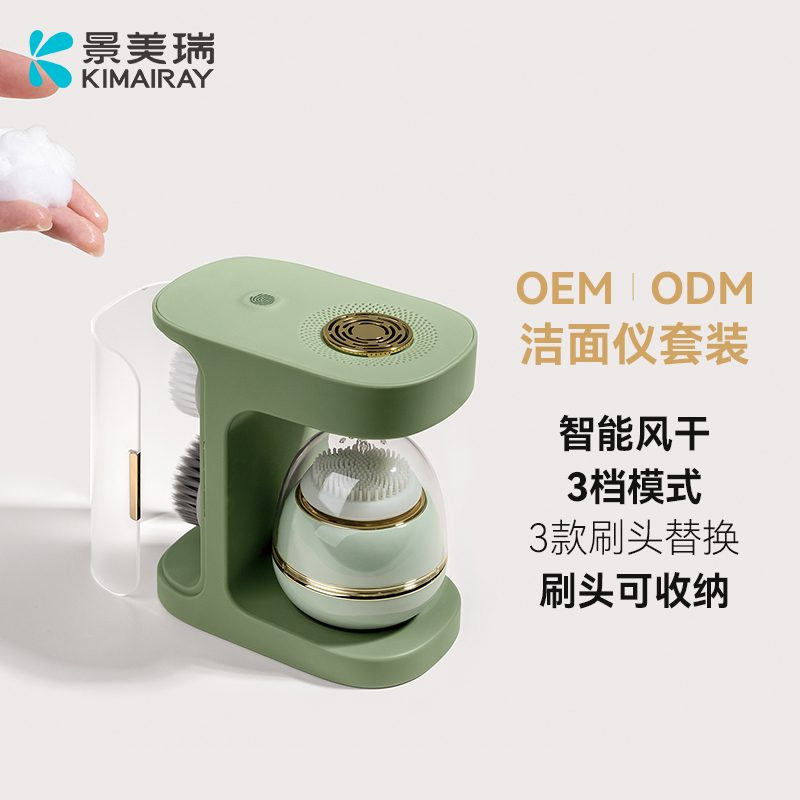
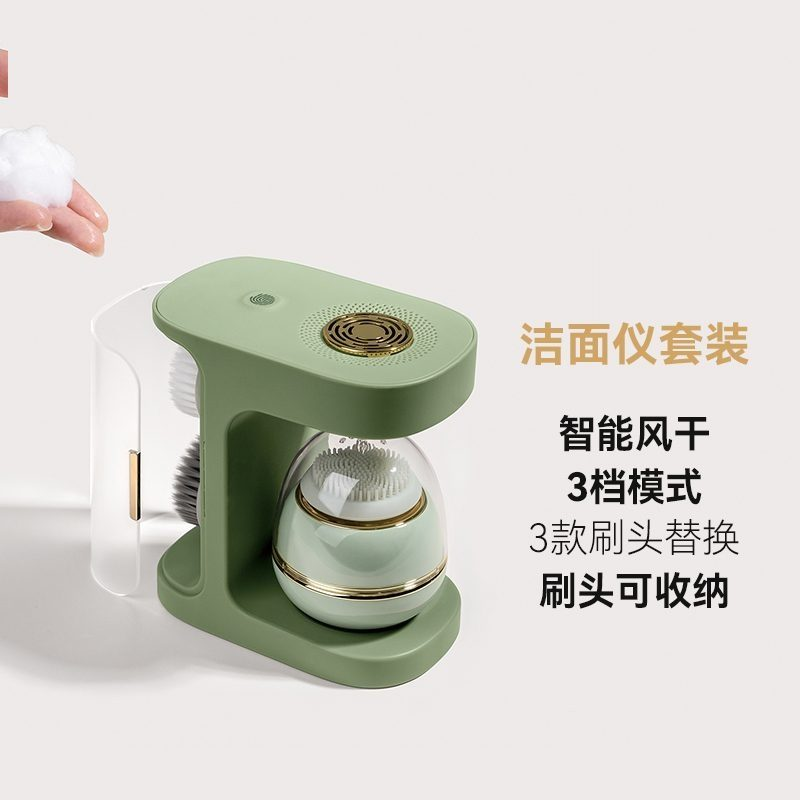
Present the beauty devices as the AuraBridge range.
Remove supplier names and corner brand marks, and replace preview wording with wholesale copy for European professional buyers.

Changed region(s): [[0.0, 0.0312, 0.2812, 0.125], [0.625, 0.3125, 0.7812, 0.4062], [0.8125, 0.3438, 0.9375, 0.4062]]

diff --git a/products.html b/products.html
@@ -24,27 +24,27 @@
     <section class="page-hero product-hero">
       <div class="container">
         <div class="breadcrumb"><a href="index.html">Home</a><span>/</span> Products</div>
-        <div class="eyebrow">Selected product overview</div>
-        <h1>Four models for <em>B2B review.</em></h1>
-        <p>Three beauty devices from our factory partner, followed by one alternating-pressure air mattress for care settings. The notes below use only details confirmed for this preview.</p>
+        <div class="eyebrow">AuraBridge range</div>
+        <h1>Beauty &amp; care devices for <em>European professionals.</em></h1>
+        <p>Sonic facial cleansing, scalp serum tools, and an alternating-pressure air mattress for care settings. Built for salons, distributors, and professional buyers.</p>
         <div class="product-hero__summary" aria-label="Product groups">
           <span><strong>03</strong> Beauty devices</span>
           <span><strong>01</strong> Air mattress</span>
         </div>
       </div>
     </section>
-    <div class="preview-strip"><div class="container"><strong>Preview</strong><i aria-hidden="true"></i><span>Prices are not shown. Certification and regional availability remain under review.</span></div></div>
+    <div class="preview-strip"><div class="container"><strong>Wholesale</strong><i aria-hidden="true"></i><span>Ask for a quote for your market. Product details are listed here; prices are quoted individually.</span></div></div>
 
     <section class="product-intro" aria-label="Browse product groups">
       <div class="container product-intro__inner">
-        <p>Browse the beauty devices first, then the air mattress. For supply or packaging questions, request a quote. This page does not list prices.</p>
+        <p>Start with the beauty devices, then the air mattress. Request a quote for wholesale supply in your market.</p>
         <nav class="category-links" aria-label="Product categories"><a href="#beauty">Beauty devices <span>03</span></a><a href="#mattresses">Air mattress <span>01</span></a></nav>
       </div>
     </section>
 
     <section class="product-section" id="beauty" aria-labelledby="beauty-title">
       <div class="container">
-        <div class="product-section__heading"><div><div class="eyebrow">01 / Beauty devices</div><h2 id="beauty-title">Facial and scalp care</h2><p>Three JingMeiRui devices for facial cleansing and for applying serum or essential oil as part of a care routine.</p></div><span class="product-section__count">03 models</span></div>
+        <div class="product-section__heading"><div><div class="eyebrow">01 / Beauty devices</div><h2 id="beauty-title">Facial and scalp care</h2><p>Three AuraBridge devices for facial cleansing and for applying serum or essential oil as part of a care routine.</p></div><span class="product-section__count">03 models</span></div>
         <div class="product-grid">
           <article class="product-card facial" id="kf-2212" data-product-id="KF-2212">
             <div class="product-card__art" data-gallery>
@@ -60,7 +60,7 @@
               </div>
             </div>
             <div class="product-card__body">
-              <span class="product-card__vendor">JingMeiRui · Facial care</span>
+              <span class="product-card__vendor">AuraBridge · Facial care</span>
               <h3>Sonic facial cleansing brush</h3>
               <p class="product-card__model">KF-2212</p>
               <p>Silicone sonic brush for facial cleansing, with a wireless charging base that uses UV-C.</p>
@@ -87,7 +87,7 @@
               </div>
             </div>
             <div class="product-card__body">
-              <span class="product-card__vendor">JingMeiRui · Scalp care</span>
+              <span class="product-card__vendor">AuraBridge · Scalp care</span>
               <h3>Precision scalp serum applicator</h3>
               <p class="product-card__model">KH-2406</p>
               <p>Portable applicator for scalp care. A roller-ball tip spreads liquid along the scalp.</p>
@@ -114,7 +114,7 @@
               </div>
             </div>
             <div class="product-card__body">
-              <span class="product-card__vendor">JingMeiRui · Scalp care</span>
+              <span class="product-card__vendor">AuraBridge · Scalp care</span>
               <h3>Scalp roller with serum reservoir</h3>
               <p class="product-card__model">KH-2307</p>
               <p>Scalp roller for scalp care and for applying essential oil or serum.</p>
@@ -154,8 +154,8 @@
       </div>
     </section>
 
-    <section class="product-footnote"><div class="container"><div class="product-footnote__box"><div class="eyebrow">About this selection</div><h2>Four models, ready for a conversation.</h2><p>These are the products currently shown on this preview. Photos were prepared from factory and manufacturer images for this page. Their appearance here does not establish AuraBridge as their manufacturer, importer, distributor or seller. Certification, regional availability and commercial terms are still being reviewed. No prices are shown.</p><a class="text-link" href="contact.html">Request a quote <span aria-hidden="true">→</span></a></div></div></section>
+    <section class="product-footnote"><div class="container"><div class="product-footnote__box"><div class="eyebrow">The range</div><h2>Professional tools, ready to quote.</h2><p>These beauty and care devices are part of the AuraBridge range for salons, distributors, and care providers in Europe. The air mattress is from our partner ObboMed. Share your market and volumes, and we will prepare a wholesale quote.</p><a class="text-link" href="contact.html">Request a quote <span aria-hidden="true">→</span></a></div></div></section>
   </main>
-  <footer class="site-footer"><div class="container footer-main"><div><a class="footer-brand" href="index.html">AuraBridge</a><p>Exploring the connection between Asian beauty and health innovation and European B2B opportunities.</p></div><div><h3>Explore</h3><div class="footer-links"><a href="about.html">About</a><a href="partnerships.html">Partnerships</a><a href="products.html">Products</a></div></div><div><h3>Information</h3><div class="footer-links"><a href="contact.html">Contact</a><a href="products.html">Portfolio updates</a></div></div></div><div class="container footer-bottom"><span>© 2026 AuraBridge. Preview for review.</span><span>English B2B website draft</span></div></footer>
+  <footer class="site-footer"><div class="container footer-main"><div><a class="footer-brand" href="index.html">AuraBridge</a><p>Exploring the connection between Asian beauty and health innovation and European B2B opportunities.</p></div><div><h3>Explore</h3><div class="footer-links"><a href="about.html">About</a><a href="partnerships.html">Partnerships</a><a href="products.html">Products</a></div></div><div><h3>Information</h3><div class="footer-links"><a href="contact.html">Contact</a><a href="products.html">Portfolio updates</a></div></div></div><div class="container footer-bottom"><span>© 2026 AuraBridge</span><span>B2B supply for Europe</span></div></footer>
 </body>
 </html>

diff --git a/partnerships.html b/partnerships.html
@@ -1,9 +1,9 @@
 <!doctype html>
 <html lang="en"><head><meta charset="utf-8"><meta name="viewport" content="width=device-width, initial-scale=1"><meta name="description" content="Explore potential B2B partnership conversations with AuraBridge."><meta name="theme-color" content="#123f61"><title>Partnerships — AuraBridge</title><link rel="icon" type="image/svg+xml" href="assets/favicon.svg"><link rel="stylesheet" href="assets/site.css"><script src="assets/site.js" defer></script></head><body>
   <a class="skip-link" href="#main">Skip to content</a><header class="site-header"><div class="container header-inner"><a class="brand" href="index.html" aria-label="AuraBridge home"><img src="assets/aurabridge-logo.jpg" alt="AuraBridge" width="180" height="49"></a><button class="menu-button" type="button" aria-label="Open menu" aria-expanded="false" aria-controls="site-nav" data-menu-button><svg viewBox="0 0 24 24" fill="none" stroke="currentColor" stroke-width="1.8" aria-hidden="true"><path d="M3 7h18M3 12h18M3 17h18"/></svg></button><nav class="site-nav" id="site-nav" aria-label="Main navigation" data-site-nav><a href="index.html">Home</a><a href="about.html">About</a><a href="partnerships.html" aria-current="page">Partnerships</a><a href="products.html">Products</a><a class="nav-contact" href="contact.html">Contact us <span aria-hidden="true">↗</span></a></nav></div></header>
-  <main id="main"><section class="page-hero"><div class="container"><div class="breadcrumb"><a href="index.html">Home</a><span>/</span> Partnerships</div><h1>Partnerships start with shared understanding.</h1><p>We are interested in conversations that connect Asian capabilities with the realities of France and European B2B markets.</p></div></section><div class="preview-strip"><div class="container"><strong>Preview</strong><i aria-hidden="true"></i><span>Potential areas for discussion; specific services have not yet been confirmed.</span></div></div>
+  <main id="main"><section class="page-hero"><div class="container"><div class="breadcrumb"><a href="index.html">Home</a><span>/</span> Partnerships</div><h1>Partnerships start with shared understanding.</h1><p>We are interested in conversations that connect Asian capabilities with the realities of France and European B2B markets.</p></div></section><div class="preview-strip"><div class="container"><strong>Partnerships</strong><i aria-hidden="true"></i><span>For brands, importers, distributors, and professional channels in Europe.</span></div></div>
     <section class="section"><div class="container content-grid"><div><div class="eyebrow">Who we hope to meet</div><h2>Different perspectives. One conversation.</h2></div><div><p>We welcome discussions with brands, importers, distributors, and professional channels interested in beauty, medical beauty, and health innovation. Each relationship would need to be defined around a confirmed product, clear roles, and relevant market requirements.</p><div class="note-box">This page describes areas for potential discussion. It does not represent a list of services currently offered or an existing partnership.</div></div></div></section>
-    <section class="section tinted"><div class="container"><div class="section-heading"><div class="eyebrow">Potential discussion areas</div><h2>Where a conversation could begin.</h2><p>These themes help structure early dialogue while the business model and portfolio are being confirmed.</p></div><div class="step-list"><article class="step"><span class="number">01</span><h3>Product fit</h3><p>What need does an innovation address, and how might it be understood in a new market?</p></article><article class="step"><span class="number">02</span><h3>Market context</h3><p>Which audience, channels, and local expectations would matter for a responsible market approach?</p></article><article class="step"><span class="number">03</span><h3>Roles and next steps</h3><p>What responsibilities, evidence, and decisions would each party need to clarify?</p></article></div></div></section>
-    <section class="section"><div class="container"><div class="callout"><div><div class="eyebrow light">Next step</div><h2>Learn how to reach us once contact details are confirmed.</h2></div><a class="button light" href="contact.html">Contact page <span aria-hidden="true">↗</span></a></div></div></section>
-  </main><footer class="site-footer"><div class="container footer-main"><div><a class="footer-brand" href="index.html">AuraBridge</a><p>Exploring the connection between Asian beauty and health innovation and European B2B opportunities.</p></div><div><h3>Explore</h3><div class="footer-links"><a href="about.html">About</a><a href="partnerships.html">Partnerships</a><a href="products.html">Products</a></div></div><div><h3>Information</h3><div class="footer-links"><a href="contact.html">Contact</a><a href="products.html">Portfolio updates</a></div></div></div><div class="container footer-bottom"><span>© 2026 AuraBridge. Preview for review.</span><span>English B2B website draft</span></div></footer>
+    <section class="section tinted"><div class="container"><div class="section-heading"><div class="eyebrow">Potential discussion areas</div><h2>Where a conversation could begin.</h2><p>These themes help structure a first conversation about product, market, and roles.</p></div><div class="step-list"><article class="step"><span class="number">01</span><h3>Product fit</h3><p>What need does an innovation address, and how might it be understood in a new market?</p></article><article class="step"><span class="number">02</span><h3>Market context</h3><p>Which audience, channels, and local expectations would matter for a responsible market approach?</p></article><article class="step"><span class="number">03</span><h3>Roles and next steps</h3><p>What responsibilities, evidence, and decisions would each party need to clarify?</p></article></div></div></section>
+    <section class="section"><div class="container"><div class="callout"><div><div class="eyebrow light">Next step</div><h2>Browse the range, then talk with us about supply.</h2></div><a class="button light" href="contact.html">Contact page <span aria-hidden="true">↗</span></a></div></div></section>
+  </main><footer class="site-footer"><div class="container footer-main"><div><a class="footer-brand" href="index.html">AuraBridge</a><p>Exploring the connection between Asian beauty and health innovation and European B2B opportunities.</p></div><div><h3>Explore</h3><div class="footer-links"><a href="about.html">About</a><a href="partnerships.html">Partnerships</a><a href="products.html">Products</a></div></div><div><h3>Information</h3><div class="footer-links"><a href="contact.html">Contact</a><a href="products.html">Portfolio updates</a></div></div></div><div class="container footer-bottom"><span>© 2026 AuraBridge</span><span>B2B supply for Europe</span></div></footer>
 </body></html>

diff --git a/about.html b/about.html
@@ -1,12 +1,12 @@
 <!doctype html>
 <html lang="en">
-<head><meta charset="utf-8"><meta name="viewport" content="width=device-width, initial-scale=1"><meta name="description" content="Learn about AuraBridge's direction and the principles behind our B2B website preview."><meta name="theme-color" content="#123f61"><title>About — AuraBridge</title><link rel="icon" type="image/svg+xml" href="assets/favicon.svg"><link rel="stylesheet" href="assets/site.css"><script src="assets/site.js" defer></script></head>
+<head><meta charset="utf-8"><meta name="viewport" content="width=device-width, initial-scale=1"><meta name="description" content="Learn about AuraBridge and our B2B work with beauty and care devices in Europe."><meta name="theme-color" content="#123f61"><title>About — AuraBridge</title><link rel="icon" type="image/svg+xml" href="assets/favicon.svg"><link rel="stylesheet" href="assets/site.css"><script src="assets/site.js" defer></script></head>
 <body>
   <a class="skip-link" href="#main">Skip to content</a>
   <header class="site-header"><div class="container header-inner"><a class="brand" href="index.html" aria-label="AuraBridge home"><img src="assets/aurabridge-logo.jpg" alt="AuraBridge" width="180" height="49"></a><button class="menu-button" type="button" aria-label="Open menu" aria-expanded="false" aria-controls="site-nav" data-menu-button><svg viewBox="0 0 24 24" fill="none" stroke="currentColor" stroke-width="1.8" aria-hidden="true"><path d="M3 7h18M3 12h18M3 17h18"/></svg></button><nav class="site-nav" id="site-nav" aria-label="Main navigation" data-site-nav><a href="index.html">Home</a><a href="about.html" aria-current="page">About</a><a href="partnerships.html">Partnerships</a><a href="products.html">Products</a><a class="nav-contact" href="contact.html">Contact us <span aria-hidden="true">↗</span></a></nav></div></header>
-  <main id="main"><section class="page-hero"><div class="container"><div class="breadcrumb"><a href="index.html">Home</a><span>/</span> About</div><h1>Connecting ideas with the places they can grow.</h1><p>AuraBridge is taking shape around a clear idea: connect Asian beauty and health innovation with thoughtful B2B opportunities in France and Europe.</p></div></section><div class="preview-strip"><div class="container"><strong>Preview</strong><i aria-hidden="true"></i><span>Our positioning and language are being reviewed.</span></div></div>
+  <main id="main"><section class="page-hero"><div class="container"><div class="breadcrumb"><a href="index.html">Home</a><span>/</span> About</div><h1>Connecting ideas with the places they can grow.</h1><p>AuraBridge is taking shape around a clear idea: connect Asian beauty and health innovation with thoughtful B2B opportunities in France and Europe.</p></div></section><div class="preview-strip"><div class="container"><strong>AuraBridge</strong><i aria-hidden="true"></i><span>A B2B partner for beauty and care devices in Europe.</span></div></div>
     <section class="section"><div class="container content-grid"><div><div class="eyebrow">Our direction</div><h2>Why AuraBridge?</h2></div><div><p class="large-copy">Markets are connected by people who understand both sides.</p><p>Across beauty, medical beauty, and health, innovation travels best when its context travels with it. AuraBridge is being developed around the meeting point of Asian capabilities and European market needs.</p><p>Our direction is B2B. We want to create room for informed discussion among brands, importers, distributors, and professional channels as the portfolio and business model take shape.</p></div></div></section>
     <section class="section tinted"><div class="container"><div class="section-heading"><div class="eyebrow">Guiding principles</div><h2>How we want to work.</h2><p>These principles guide the development of AuraBridge. They are a direction for the brand, rather than a claim about completed services or products.</p></div><div class="value-grid"><div class="value"><span class="number">01</span><h3>Safety first</h3><p>Place product safety, responsible information, and trust at the center of decisions.</p></div><div class="value"><span class="number">02</span><h3>Evidence over hype</h3><p>Prefer clear evidence and careful language to exaggerated claims.</p></div><div class="value"><span class="number">03</span><h3>Local insight</h3><p>Respect cultural, market, and channel differences as opportunities are explored.</p></div><div class="value"><span class="number">04</span><h3>Long-term thinking</h3><p>Value open communication and relationships that can develop over time.</p></div></div></div></section>
     <section class="section"><div class="container"><div class="callout"><div><div class="eyebrow light">Explore further</div><h2>See the areas where future partnerships could begin.</h2></div><a class="button light" href="partnerships.html">Partnerships <span aria-hidden="true">↗</span></a></div></div></section>
-  </main><footer class="site-footer"><div class="container footer-main"><div><a class="footer-brand" href="index.html">AuraBridge</a><p>Exploring the connection between Asian beauty and health innovation and European B2B opportunities.</p></div><div><h3>Explore</h3><div class="footer-links"><a href="about.html">About</a><a href="partnerships.html">Partnerships</a><a href="products.html">Products</a></div></div><div><h3>Information</h3><div class="footer-links"><a href="contact.html">Contact</a><a href="products.html">Portfolio updates</a></div></div></div><div class="container footer-bottom"><span>© 2026 AuraBridge. Preview for review.</span><span>English B2B website draft</span></div></footer>
+  </main><footer class="site-footer"><div class="container footer-main"><div><a class="footer-brand" href="index.html">AuraBridge</a><p>Exploring the connection between Asian beauty and health innovation and European B2B opportunities.</p></div><div><h3>Explore</h3><div class="footer-links"><a href="about.html">About</a><a href="partnerships.html">Partnerships</a><a href="products.html">Products</a></div></div><div><h3>Information</h3><div class="footer-links"><a href="contact.html">Contact</a><a href="products.html">Portfolio updates</a></div></div></div><div class="container footer-bottom"><span>© 2026 AuraBridge</span><span>B2B supply for Europe</span></div></footer>
 </body></html>

diff --git a/index.html b/index.html
@@ -34,7 +34,7 @@
         <div class="hero-art" aria-hidden="true"><div class="orbit"></div><div class="orbit second"></div><div class="arch"></div><div class="red-point"></div><div class="art-label">Connecting perspectives</div></div>
       </div>
     </section>
-    <div class="preview-strip"><div class="container"><strong>Preview</strong><i aria-hidden="true"></i><span>Four selected products are shown for review. Availability and contact details remain under confirmation.</span></div></div>
+    <div class="preview-strip"><div class="container"><strong>Wholesale</strong><i aria-hidden="true"></i><span>Beauty and care devices for salons, distributors, and care teams across Europe.</span></div></div>
     <section class="section" aria-labelledby="intro-title">
       <div class="container intro-grid">
         <div><div class="eyebrow">Our perspective</div><h2 id="intro-title">A thoughtful route across borders.</h2></div>
@@ -51,8 +51,8 @@
       </div>
     </section>
     <section class="section" aria-labelledby="connection-title"><div class="container split-panel"><div class="panel-art"><span class="coordinates">Asia &nbsp; ↔ &nbsp; France / Europe</span></div><div class="panel-copy"><div class="eyebrow">B2B focus</div><h2 id="connection-title">Connection starts with a conversation.</h2><p>We are exploring opportunities with brands, importers, distributors, and professional channels. The right partnership depends on the product, market, and responsibilities involved.</p><a class="text-link" href="partnerships.html">Explore partnership areas <span aria-hidden="true">→</span></a></div></div></section>
-    <section class="section" aria-labelledby="portfolio-title"><div class="container"><div class="section-heading"><div class="eyebrow">Selected products</div><h2 id="portfolio-title">Four models for B2B review.</h2><p>Three beauty devices and one alternating-pressure air mattress. Details on the product page are limited to what has been confirmed for this preview.</p><a class="text-link" href="products.html">Browse the selection <span aria-hidden="true">→</span></a></div><div class="highlight-grid"><a class="highlight" href="products.html#kf-2212"><img src="assets/product-images/kf-2212-1.jpg" alt="" width="800" height="800"><span>KF-2212</span><strong>Sonic facial cleansing brush</strong></a><a class="highlight" href="products.html#kh-2406"><img src="assets/product-images/kh-2406-1.jpg" alt="" width="797" height="801"><span>KH-2406</span><strong>Precision scalp serum applicator</strong></a><a class="highlight" href="products.html#kh-2307"><img src="assets/product-images/kh-2307-1.jpg" alt="" width="800" height="800"><span>KH-2307</span><strong>Scalp roller with serum reservoir</strong></a><a class="highlight" href="products.html#ob-1600"><img src="assets/product-images/ob-1600.jpg" alt="" width="1200" height="900"><span>OB-1600</span><strong>Medical alternating-pressure air mattress</strong></a></div><div class="callout"><div><div class="eyebrow light">Continue the conversation</div><h2>Interested in the direction AuraBridge is taking?</h2></div><a class="button light" href="contact.html">Contact information <span aria-hidden="true">↗</span></a></div></div></section>
+    <section class="section" aria-labelledby="portfolio-title"><div class="container"><div class="section-heading"><div class="eyebrow">The range</div><h2 id="portfolio-title">Beauty &amp; care devices for European professionals.</h2><p>Three beauty devices and one alternating-pressure air mattress for salons, distributors, and care settings.</p><a class="text-link" href="products.html">Browse the range <span aria-hidden="true">→</span></a></div><div class="highlight-grid"><a class="highlight" href="products.html#kf-2212"><img src="assets/product-images/kf-2212-1.jpg" alt="" width="800" height="800"><span>KF-2212</span><strong>Sonic facial cleansing brush</strong></a><a class="highlight" href="products.html#kh-2406"><img src="assets/product-images/kh-2406-1.jpg" alt="" width="797" height="801"><span>KH-2406</span><strong>Precision scalp serum applicator</strong></a><a class="highlight" href="products.html#kh-2307"><img src="assets/product-images/kh-2307-1.jpg" alt="" width="800" height="800"><span>KH-2307</span><strong>Scalp roller with serum reservoir</strong></a><a class="highlight" href="products.html#ob-1600"><img src="assets/product-images/ob-1600.jpg" alt="" width="1200" height="900"><span>OB-1600</span><strong>Medical alternating-pressure air mattress</strong></a></div><div class="callout"><div><div class="eyebrow light">Continue the conversation</div><h2>Interested in the direction AuraBridge is taking?</h2></div><a class="button light" href="contact.html">Contact information <span aria-hidden="true">↗</span></a></div></div></section>
   </main>
-  <footer class="site-footer"><div class="container footer-main"><div><a class="footer-brand" href="index.html">AuraBridge</a><p>Exploring the connection between Asian beauty and health innovation and European B2B opportunities.</p></div><div><h3>Explore</h3><div class="footer-links"><a href="about.html">About</a><a href="partnerships.html">Partnerships</a><a href="products.html">Products</a></div></div><div><h3>Information</h3><div class="footer-links"><a href="contact.html">Contact</a><a href="products.html">Portfolio updates</a></div></div></div><div class="container footer-bottom"><span>© 2026 AuraBridge. Preview for review.</span><span>English B2B website draft</span></div></footer>
+  <footer class="site-footer"><div class="container footer-main"><div><a class="footer-brand" href="index.html">AuraBridge</a><p>Exploring the connection between Asian beauty and health innovation and European B2B opportunities.</p></div><div><h3>Explore</h3><div class="footer-links"><a href="about.html">About</a><a href="partnerships.html">Partnerships</a><a href="products.html">Products</a></div></div><div><h3>Information</h3><div class="footer-links"><a href="contact.html">Contact</a><a href="products.html">Portfolio updates</a></div></div></div><div class="container footer-bottom"><span>© 2026 AuraBridge</span><span>B2B supply for Europe</span></div></footer>
 </body>
 </html>

diff --git a/contact.html b/contact.html
@@ -1,8 +1,8 @@
 <!doctype html>
 <html lang="en"><head><meta charset="utf-8"><meta name="viewport" content="width=device-width, initial-scale=1"><meta name="description" content="AuraBridge contact information will be published here when it has been confirmed."><meta name="theme-color" content="#123f61"><title>Contact — AuraBridge</title><link rel="icon" type="image/svg+xml" href="assets/favicon.svg"><link rel="stylesheet" href="assets/site.css"><script src="assets/site.js" defer></script></head><body>
   <a class="skip-link" href="#main">Skip to content</a><header class="site-header"><div class="container header-inner"><a class="brand" href="index.html" aria-label="AuraBridge home"><img src="assets/aurabridge-logo.jpg" alt="AuraBridge" width="180" height="49"></a><button class="menu-button" type="button" aria-label="Open menu" aria-expanded="false" aria-controls="site-nav" data-menu-button><svg viewBox="0 0 24 24" fill="none" stroke="currentColor" stroke-width="1.8" aria-hidden="true"><path d="M3 7h18M3 12h18M3 17h18"/></svg></button><nav class="site-nav" id="site-nav" aria-label="Main navigation" data-site-nav><a href="index.html">Home</a><a href="about.html">About</a><a href="partnerships.html">Partnerships</a><a href="products.html">Products</a><a class="nav-contact" href="contact.html" aria-current="page">Contact us <span aria-hidden="true">↗</span></a></nav></div></header>
-  <main id="main"><section class="page-hero"><div class="container"><div class="breadcrumb"><a href="index.html">Home</a><span>/</span> Contact</div><h1>Let the next connection begin.</h1><p>We look forward to future conversations with B2B partners. Public contact information is being confirmed.</p></div></section><div class="preview-strip"><div class="container"><strong>Preview</strong><i aria-hidden="true"></i><span>This page does not collect messages or personal information.</span></div></div>
-    <section class="section"><div class="container contact-grid"><div class="contact-card dark"><div class="eyebrow light">Get in touch</div><h2>Contact details coming soon.</h2><p>Once the appropriate public contact channel is approved, it will appear on this page.</p></div><div class="contact-card"><div class="eyebrow">For future partners</div><h2>Share a clear starting point.</h2><p>When our contact channel opens, we would welcome a short introduction to your organization, the market you work in, and the opportunity you would like to discuss.</p><span class="status">Contact channel pending</span></div></div></section>
+  <main id="main"><section class="page-hero"><div class="container"><div class="breadcrumb"><a href="index.html">Home</a><span>/</span> Contact</div><h1>Let the next connection begin.</h1><p>We welcome wholesale conversations with salons, distributors, and care providers.</p></div></section><div class="preview-strip"><div class="container"><strong>Enquiries</strong><i aria-hidden="true"></i><span>Tell us about your organisation, your market, and the products you want to discuss.</span></div></div>
+    <section class="section"><div class="container contact-grid"><div class="contact-card dark"><div class="eyebrow light">Get in touch</div><h2>Request a wholesale quote.</h2><p>Tell us who you buy for and which AuraBridge models you want to discuss. A public enquiry address will be listed on this page.</p></div><div class="contact-card"><div class="eyebrow">For partners</div><h2>Share a clear starting point.</h2><p>A useful introduction names your organisation, the market you serve, and the products you would like to quote.</p><span class="status">Quotes on request</span></div></div></section>
     <section class="section tinted"><div class="container content-grid"><div><div class="eyebrow">Until then</div><h2>Explore our direction.</h2></div><div><p>Learn more about AuraBridge's B2B focus and the areas where future conversations may begin.</p><a class="text-link" href="partnerships.html">Visit partnerships <span aria-hidden="true">→</span></a></div></div></section>
-  </main><footer class="site-footer"><div class="container footer-main"><div><a class="footer-brand" href="index.html">AuraBridge</a><p>Exploring the connection between Asian beauty and health innovation and European B2B opportunities.</p></div><div><h3>Explore</h3><div class="footer-links"><a href="about.html">About</a><a href="partnerships.html">Partnerships</a><a href="products.html">Products</a></div></div><div><h3>Information</h3><div class="footer-links"><a href="contact.html">Contact</a><a href="products.html">Portfolio updates</a></div></div></div><div class="container footer-bottom"><span>© 2026 AuraBridge. Preview for review.</span><span>English B2B website draft</span></div></footer>
+  </main><footer class="site-footer"><div class="container footer-main"><div><a class="footer-brand" href="index.html">AuraBridge</a><p>Exploring the connection between Asian beauty and health innovation and European B2B opportunities.</p></div><div><h3>Explore</h3><div class="footer-links"><a href="about.html">About</a><a href="partnerships.html">Partnerships</a><a href="products.html">Products</a></div></div><div><h3>Information</h3><div class="footer-links"><a href="contact.html">Contact</a><a href="products.html">Portfolio updates</a></div></div></div><div class="container footer-bottom"><span>© 2026 AuraBridge</span><span>B2B supply for Europe</span></div></footer>
 </body></html>

diff --git a/README.md b/README.md
@@ -1,6 +1,6 @@
-# AuraBridge website preview
+# AuraBridge website
 
-An English B2B website preview for AuraBridge. It introduces the proposed positioning and shows four selected products: three beauty devices and one alternating-pressure air mattress. Availability, contact details, and specific commercial services remain under review.
+An English B2B website for AuraBridge. It introduces the company and shows four products in the range: three beauty devices and one alternating-pressure air mattress.
 
 **View the website:** https://ekoh1230.github.io/aurabridge-website-preview/
 
@@ -13,13 +13,13 @@ Open `index.html` in a browser. The site uses plain HTML, CSS, and a small JavaS
 - `index.html` — introduction
 - `about.html` — purpose and principles
 - `partnerships.html` — potential areas for discussion
-- `products.html` — four selected models, beauty devices first and the air mattress last, with locally hosted photos
+- `products.html` — four models in the AuraBridge range, beauty devices first and the air mattress last, with locally hosted photos
 - `contact.html` — contact placeholder
 
 Shared assets live in `assets/`. Product photo sources are recorded in `docs/product-images.json`. The logo is a temporary image provided for the project and may be replaced when the final mark is approved.
 
 ## Content status
 
-This is a review draft. The product list is four models approved for the preview: KF-2212, KH-2406, KH-2307 and OB-1600. Cards use locally hosted factory photos recorded in `docs/product-images.json`. One KH-2406 photo was left out because its title contains the characters 米诺. Prices are not shown; each card links to a request-a-quote path on the contact page. Certification and treatment claims are not used. Before treating the products as available through AuraBridge, confirm the legal entity and commercial role, regional availability, specifications and regulatory documentation, permission for commercial use of factory media, actual partnership capabilities, and public contact details. No contact form, tracking, payment, or data collection is connected.
+The product list is KF-2212, KH-2406, KH-2307 and OB-1600. Beauty devices are presented as the AuraBridge range. The mattress remains an ObboMed product. Photos are stored locally and recorded in `docs/product-images.json`. One KH-2406 photo was left out because its title contains the characters 米诺. Prices are not shown; each card links to a request-a-quote path on the contact page. Certification and treatment claims are not used. No contact form, tracking, payment, or data collection is connected.
 
-Publishing this repository with GitHub Pages makes the preview publicly accessible to anyone with the URL. Keep internal source documents out of this repository.
+Publishing this repository with GitHub Pages makes the site publicly accessible to anyone with the URL. Keep internal source documents out of this repository.

diff --git a/docs/decisions.md b/docs/decisions.md
@@ -33,8 +33,15 @@
 
 ## 2026-10-20 — Four approved products replace the fifteen-model preview
 
-- Source: founder's approval to show three beauty devices from the factory partner and the lowest-priced medical air mattress. Certification questions stay open.
+- Source: founder's approval to show three beauty devices and the lowest-priced medical air mattress. Certification questions stay open.
 - The products page and the home-page highlights now show only KF-2212, KH-2406, KH-2307 and OB-1600, with beauty devices first and the mattress last.
 - Copy uses confirmed product details only. No prices, certification marks or treatment claims. KH-2307 is described for scalp care and essential-oil or serum application, without a reservoir volume. KH-2406 copy does not mention drugs or hair-growth claims.
 - Photos are stored in `assets/product-images/` and listed in `docs/product-images.json`. The KH-2406 photo whose title contains 米诺 was not used. Unconfirmed millilitre labels on KH-2307 photos were covered, as was a line on the third photo about opening skin channels. Conflicting size callouts and a free-packaging line on the fourth KH-2307 photo were covered as well.
 - Each card uses “Request a quote”, linking to the contact page. The contact channel itself is still unconfirmed.
+
+## 2026-10-20 — Present the range as AuraBridge
+
+- Founder approval on the product pull request: remove the supplier name from the site and replace internal-review wording with customer-facing copy.
+- Beauty devices are presented as the AuraBridge range. ObboMed stays on the air mattress.
+- Corner brand marks on the beauty-device photos were covered where they sat on a plain background.
+- Visible preview, review, and draft labels were rewritten as wholesale B2B copy. Prices, certification claims, and treatment claims stay off the site.
